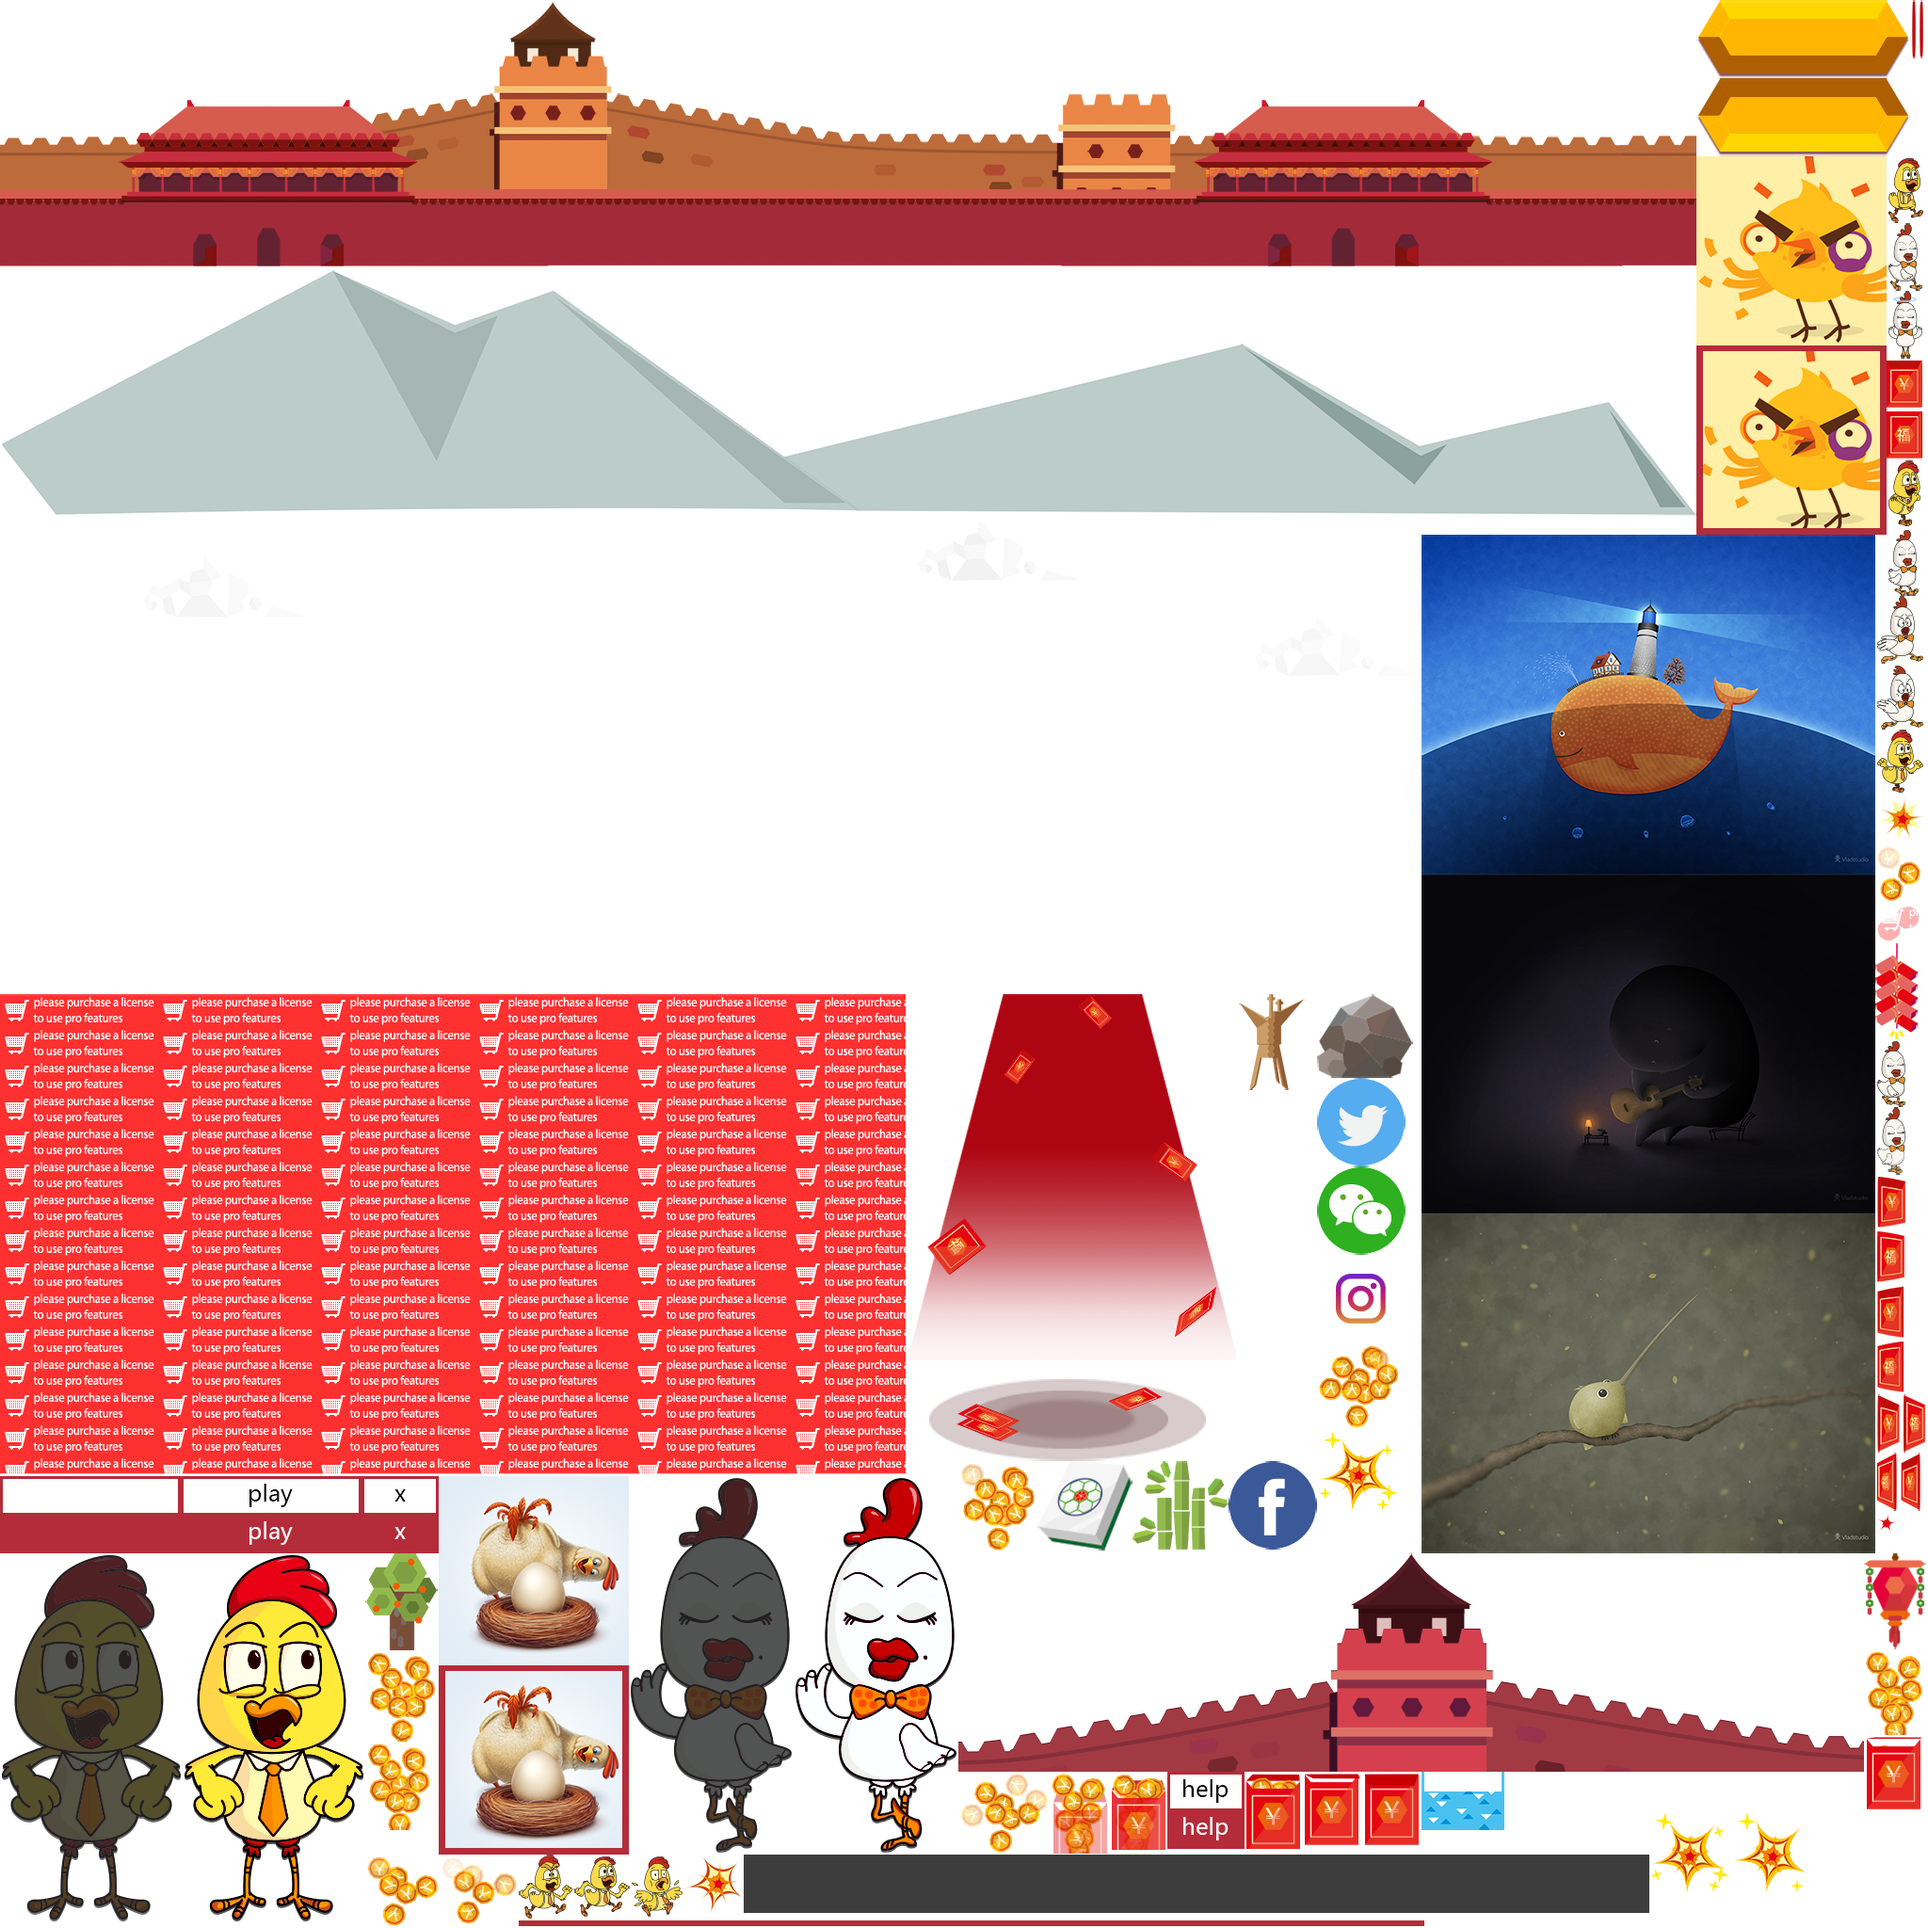
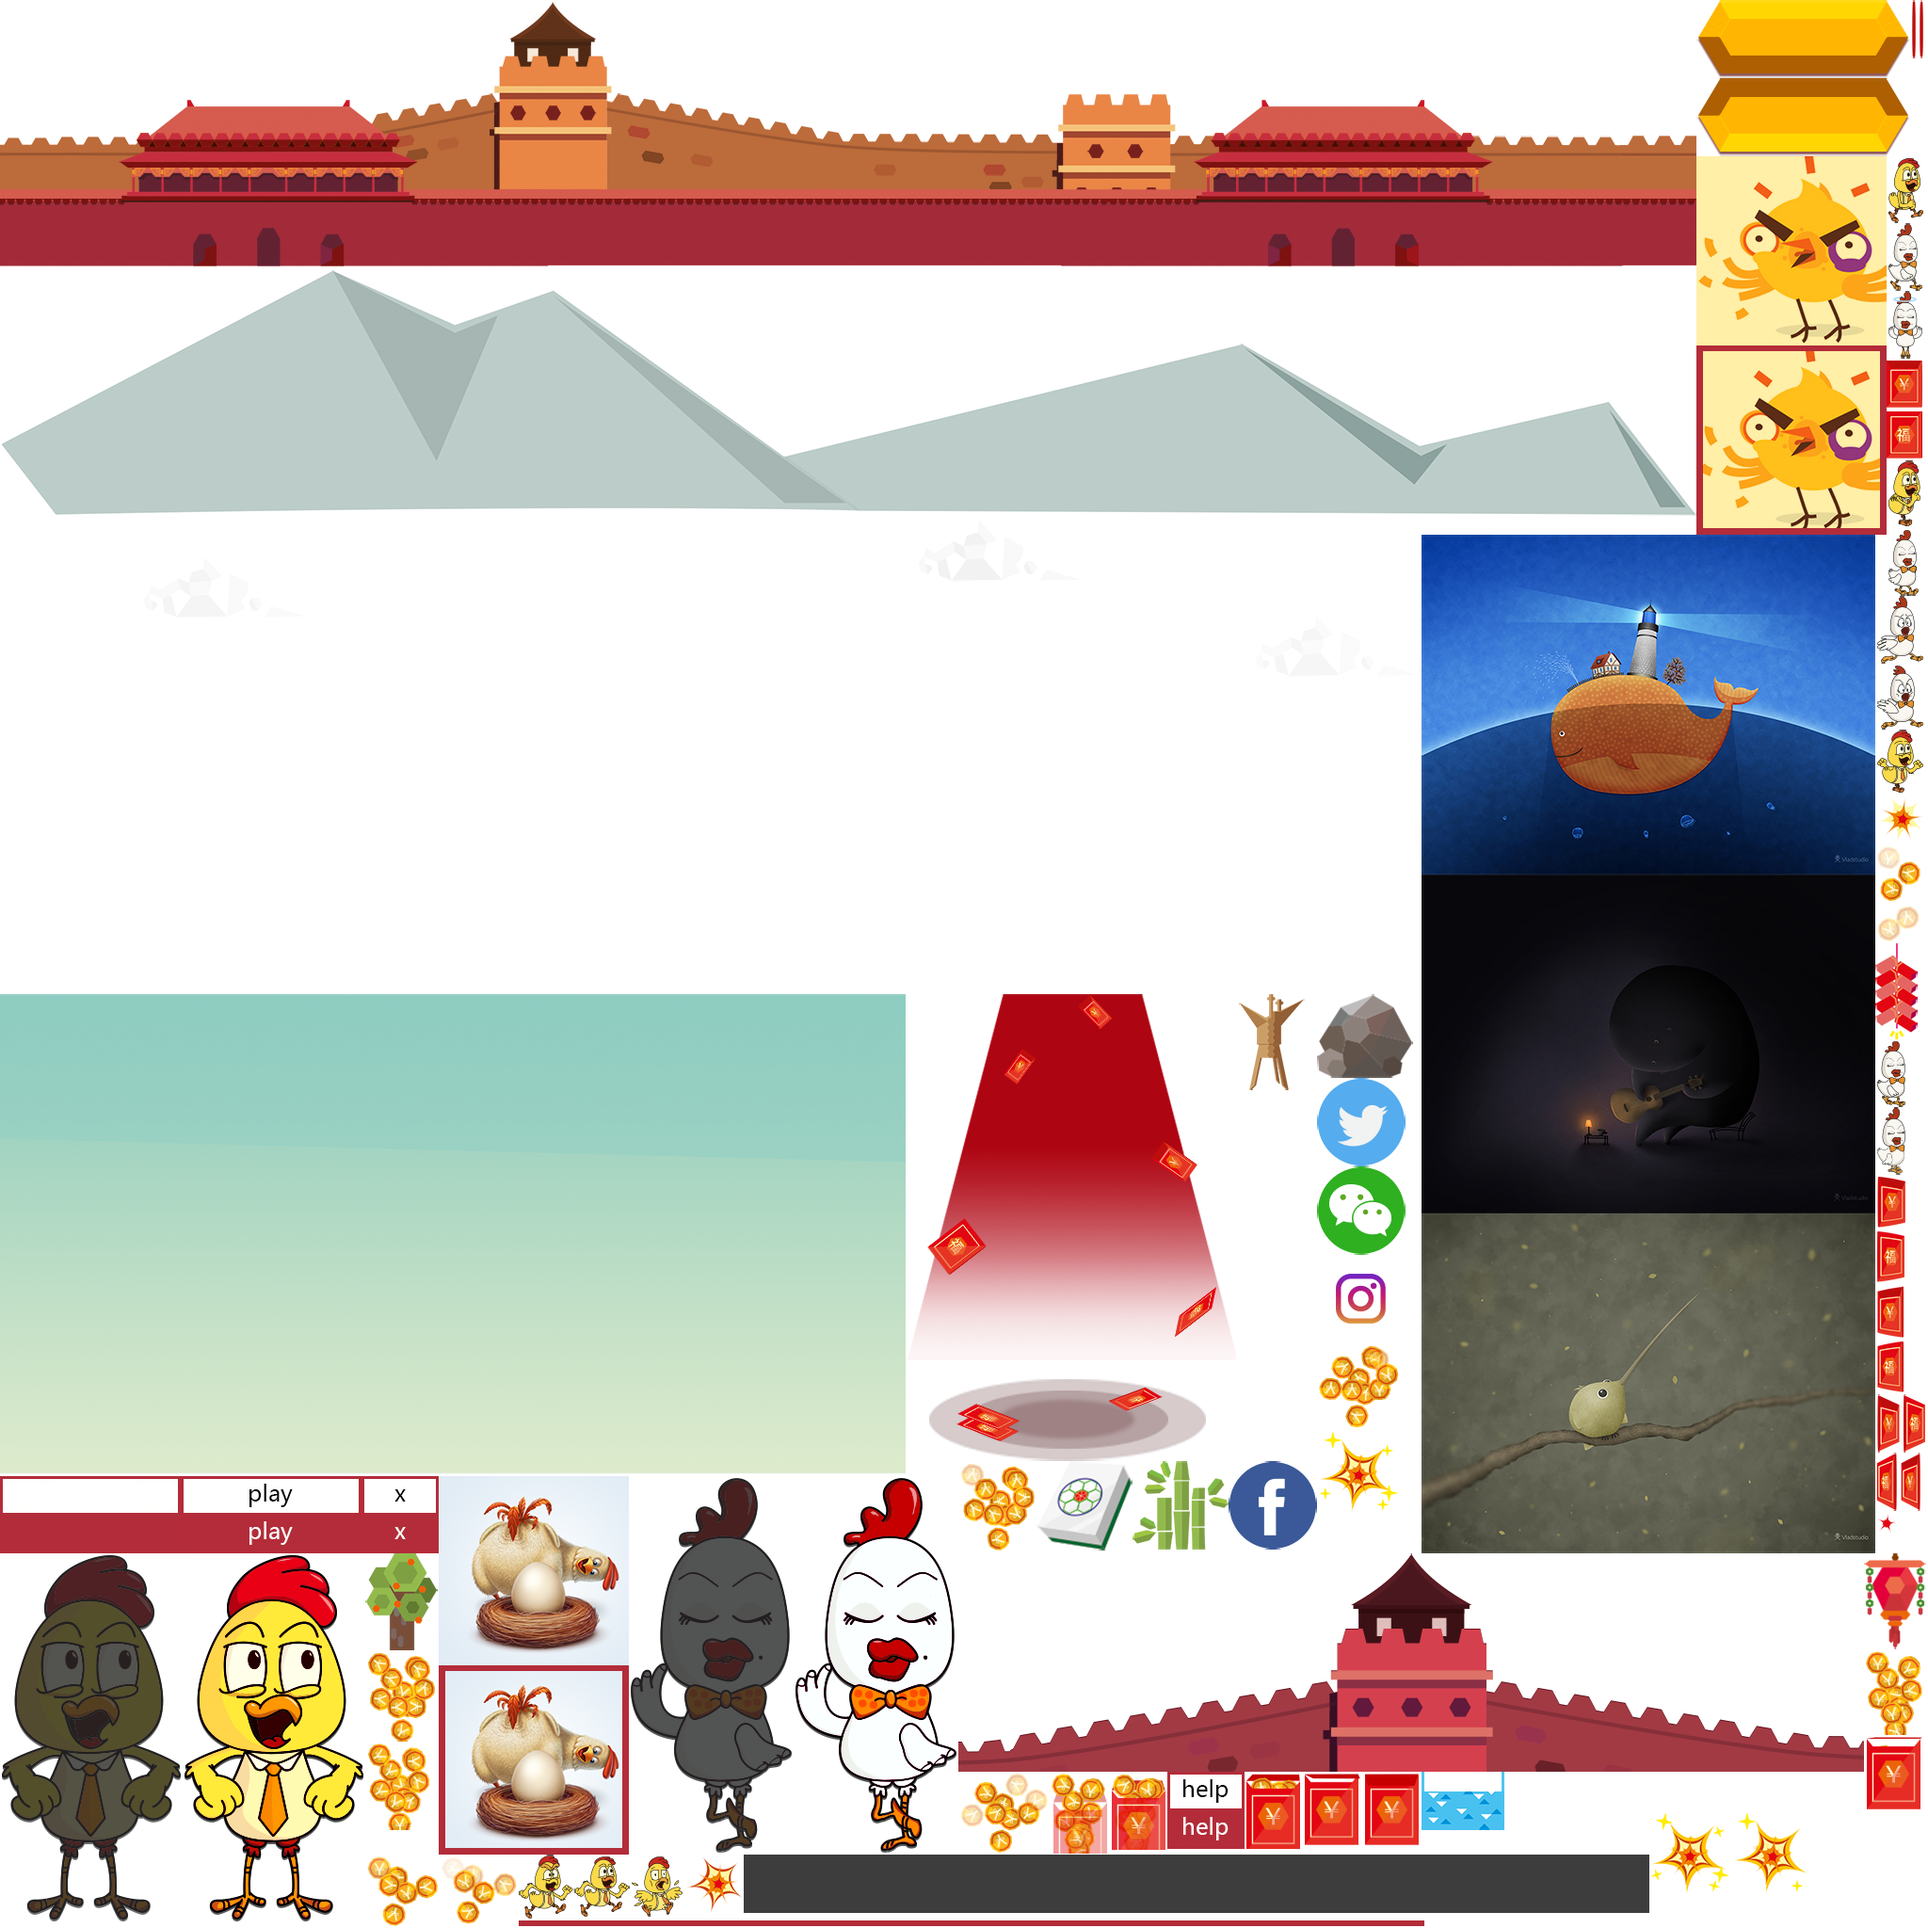
update start game page and images

Changed region(s): [[0.0, 0.5, 0.4688, 0.7812], [0.9688, 0.4688, 1.0, 0.5]]

diff --git a/game/js/preGame.js b/game/js/preGame.js
@@ -206,20 +206,50 @@
 
     INME.State.StartGame = {
         create: function () {
+            
+
+            //角色选择
+            new CharacterSelector(this.game, this.getCSImages(), this.getCSPositions(), this.selectCharacter, INME.Vars.characterIndex);
+
+            //长城
+            this.game.add.image(0, 310, 'images', 'startgame/greatWall');
+
             var btnPlay = new INME.Button(this.game, this.handleClick, this, 'btnLan', INME.getCopy('play'), 28);
             btnPlay.name = 'btnPlay';
             btnPlay.position.set(480, 420);
 
-            //角色选择
-            var cs = new CharacterSelector(this.game, this.getCSKeys(), this.selectCharacter, INME.Vars.characterIndex);
-            cs.position.set((this.game.width - cs.width) >> 1, 100);
         },
-        getCSKeys: function () {
+        getCSImages: function () {
             var arr = [];
             for (var i = 0; i < INME.Vars.characterNum; i++) {
-                arr.push(INME.Vars.characterPrefix + '_' + i + '_select');
+                arr.push({
+                    light: {
+                        key: 'images',
+                        frame: 'startgame/light',
+                    },
+                    normal: {
+                        key: 'images',
+                        frame: 'startgame/chicken_' + i,
+                    },
+                    select: {
+                        key: 'images',
+                        frame: 'startgame/chicken_' + i + '_select',
+                    }
+                })
             }
             return arr;
+        },
+        getCSPositions: function () {
+            return [
+                {
+                    x: -13,
+                    y: 0,
+                },
+                {
+                    x: 611,
+                    y: 0
+                }
+            ]
         },
         selectCharacter: function (index) {
             INME.Vars.characterIndex = index;
@@ -234,29 +264,54 @@
         },
     }
 
-    function CharacterSelector(game, keys, callback, index) {
-        var x = 0;
-        var padding = 30;
+    function Character(game, image) {
+        var group = game.add.sprite();
 
-        index = index === undefined ? 0 : index;
+        this.lightImg = group.addChild(new Phaser.Image(game, 0, 0, image.light.key, image.light.frame));
+        this.normalImg = group.addChild(new Phaser.Image(game, 0, 0, image.normal.key, image.normal.frame));
+        this.selectImg = group.addChild(new Phaser.Image(game, 0, 0, image.select.key, image.select.frame));
 
+        this.select(false);
+        
+        return group;
+    }
+
+    Character.prototype.select = function (value) {
+        if (value) {
+            this.normalImg.alpha = 0;
+            this.lightImg.alpha = 1;
+            this.selectImg.alpha = 1;
+        }
+        else {
+            this.normalImg.alpha = 1;
+            this.lightImg.alpha = 0;
+            this.selectImg.alpha = 0;
+        }
+    }
+
+    function CharacterSelector(game, images, positions, callback, index) {
         var group = game.add.group();
         group.inputEnableChildren = true;
         group.onChildInputDown.add(handleClick);
 
-        var len = keys.length;
+        var len = images.length;
         for (var i = 0; i < len; i++) {
-            var c = group.create(x, 0, keys[i]);
-            x += (c.width + padding);
+            var image = images[i];
+            var position = positions[i];
+            var character = new Character(game, image);
+            character.position.set(position.x, position.y);
+
+            group.add(character);
         }
 
-        setSprite(group.getChildAt(index), 1);//初始化选择
+        index = index === undefined ? 0 : index;
+        //group.getChildAt(index).select(true);
 
-        function handleClick(sprite, pointer) {
-            var wantIndex = group.getChildIndex(sprite);
+        function handleClick(character) {
+            var wantIndex = group.getChildIndex(character);
             if (wantIndex !== index) {
-                setSprite(sprite, 1);
-                setSprite(group.getChildAt(index), 0);
+                character.select(true);
+                group.getChildAt(index).select(false);
 
                 index = wantIndex;
 
@@ -264,10 +319,44 @@
             }
         }
 
-        function setSprite(sprite, frame) {
-            sprite.frame = frame;
-        }
 
-        return group;
+
     }
+
+    // function CharacterSelector(game, keys, callback, index) {
+    //     var x = 0;
+    //     var padding = 30;
+
+    //     index = index === undefined ? 0 : index;
+
+    //     var group = game.add.group();
+    //     group.inputEnableChildren = true;
+    //     group.onChildInputDown.add(handleClick);
+
+    //     var len = keys.length;
+    //     for (var i = 0; i < len; i++) {
+    //         var c = group.create(x, 0, keys[i]);
+    //         x += (c.width + padding);
+    //     }
+
+    //     setSprite(group.getChildAt(index), 1);//初始化选择
+
+    //     function handleClick(sprite, pointer) {
+    //         var wantIndex = group.getChildIndex(sprite);
+    //         if (wantIndex !== index) {
+    //             setSprite(sprite, 1);
+    //             setSprite(group.getChildAt(index), 0);
+
+    //             index = wantIndex;
+
+    //             callback(index);
+    //         }
+    //     }
+
+    //     function setSprite(sprite, frame) {
+    //         sprite.frame = frame;
+    //     }
+
+    //     return group;
+    // }
 })();
